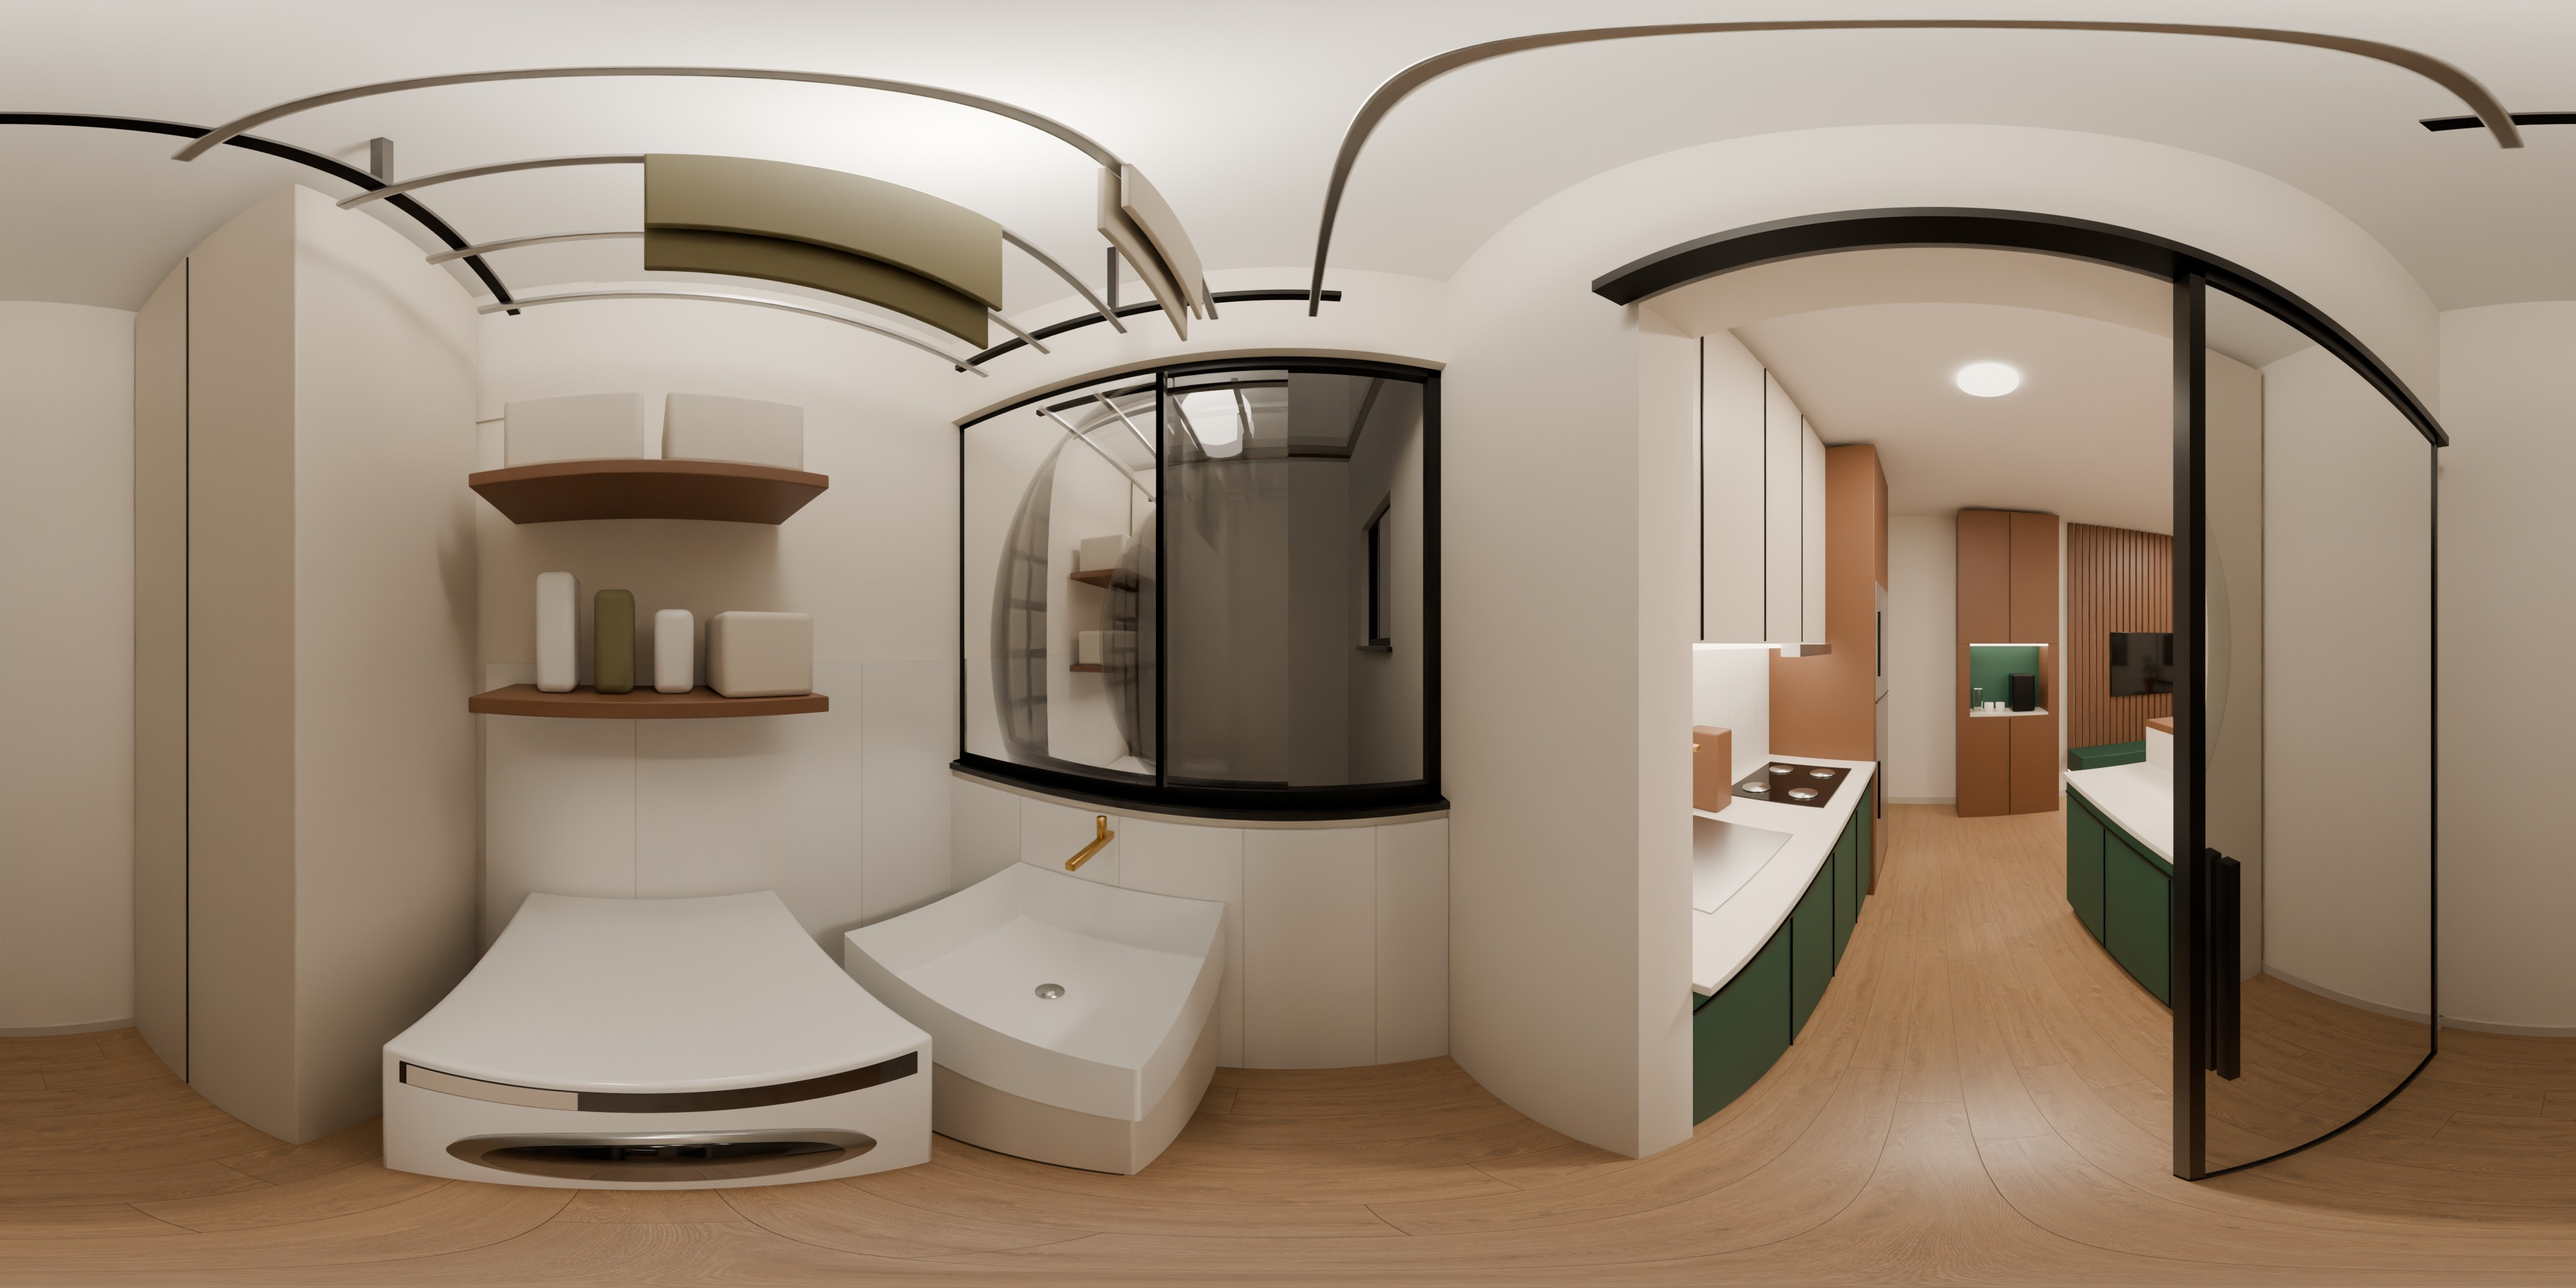
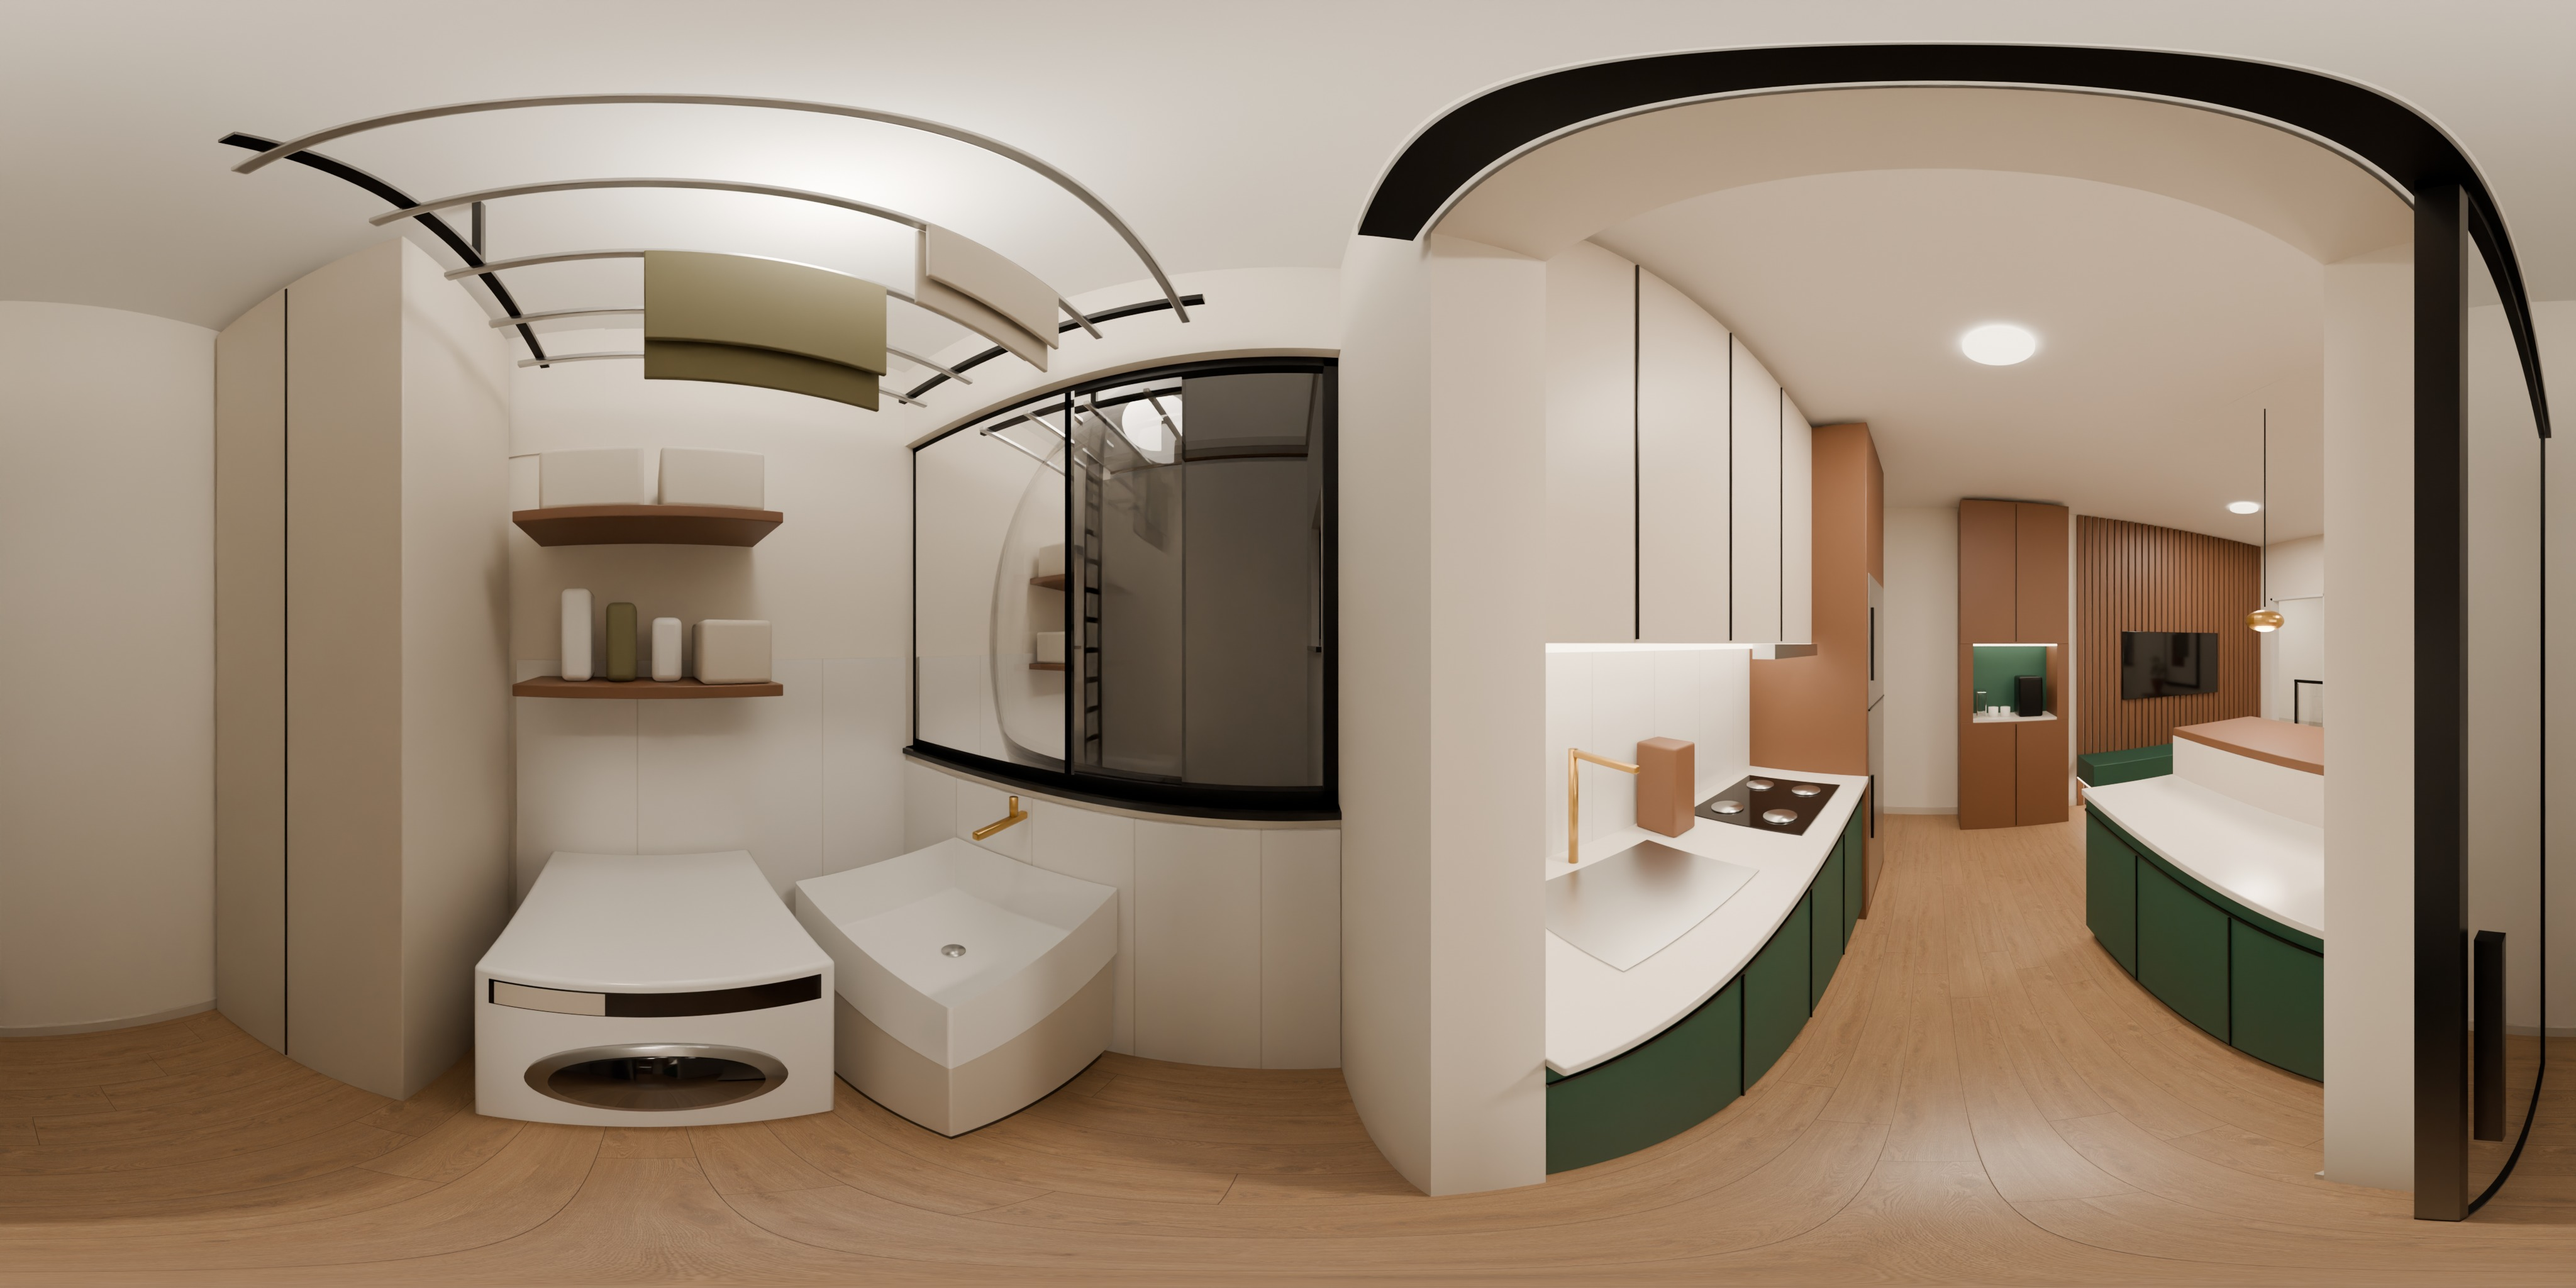
Tour 3D: 360 da lavanderia com a camera na porta

diff --git a/index.html b/index.html
@@ -140,7 +140,7 @@ const CENAS = {
 
   q_sala:    {tipo:"q3", nome:"Sala", area:"11,47", pano:"3q_sala", x:[0,2.40], y:[0,4.78], cam:[1.10,3.30], yaw:-35},
   q_cozinha: {tipo:"q3", nome:"Cozinha", area:"10,03", pano:"3q_cozinha", x:[2.52,4.55], y:[1.38,4.78], cam:[3.45,3.00], yaw:-90},
-  q_servico: {tipo:"q3", nome:"Área de serviço", area:"tanque e lava e seca", pano:"3q_lavanderia", x:[2.52,4.55], y:[0,1.38], cam:[3.62,1.00], yaw:-60},
+  q_servico: {tipo:"q3", nome:"Área de serviço", area:"tanque e lava e seca", pano:"3q_lavanderia", x:[2.52,4.55], y:[0,1.38], cam:[3.62,1.26], yaw:-75},
   q_banheiro:{tipo:"q3", nome:"Banheiro", area:"3,39", pano:"3q_banheiro", x:[4.67,6.17], y:[1.50,3.76], cam:[5.60,3.10], yaw:-120},
   q_corredor:{tipo:"q3", nome:"Circulação", area:"5,73", pano:"3q_corredor", x:[4.67,11.04], y:[3.88,4.78], cam:[7.85,4.33], yaw:180},
   q_quarto3: {tipo:"q3", nome:"Quarto", area:"9,02", pano:"3q_quarto3", x:[6.29,8.69], y:[0,3.76], cam:[7.60,3.30], yaw:-150},
@@ -149,7 +149,7 @@ const CENAS = {
 
   t_sala:    {tipo:"terreo", nome:"Sala", area:"11,47", pano:"t_sala", x:[0,2.40], y:[0,4.78], cam:[1.10,3.30], yaw:-35},
   t_cozinha: {tipo:"terreo", nome:"Cozinha", area:"10,03", pano:"t_cozinha", x:[2.52,4.55], y:[1.38,4.78], cam:[3.45,3.00], yaw:-90},
-  t_servico: {tipo:"terreo", nome:"Área de serviço", area:"tanque e lava e seca", pano:"t_lavanderia", x:[2.52,4.55], y:[0,1.38], cam:[3.62,1.00], yaw:-60},
+  t_servico: {tipo:"terreo", nome:"Área de serviço", area:"tanque e lava e seca", pano:"t_lavanderia", x:[2.52,4.55], y:[0,1.38], cam:[3.62,1.26], yaw:-75},
   t_banheiro:{tipo:"terreo", nome:"Banheiro", area:"3,39", pano:"t_banheiro", x:[4.67,6.17], y:[1.50,3.76], cam:[5.60,3.10], yaw:-120},
   t_corredor:{tipo:"terreo", nome:"Circulação", area:"5,73", pano:"t_corredor", x:[4.67,11.04], y:[3.88,4.78], cam:[7.85,4.33], yaw:180},
   t_quarto3: {tipo:"terreo", nome:"Quarto", area:"9,02", pano:"t_quarto3", x:[6.29,8.69], y:[0,3.76], cam:[7.60,3.30], yaw:-60},
@@ -172,13 +172,13 @@ const PASSAGENS = {
   hall_andar:[["hall_terreo",[-1.90,3.4],"Descer",90],["q_sala",[-0.06,4.20],"Apto 201 · 301",0],["q_sala",[-0.06,5.56],"Apto 202 · 302",0],["d_sala",[-2.52,7.78],"Apto 203 · 303",180]],
 
   q_sala:[["q_cozinha",[2.46,3.70]],["hall_andar",[-0.06,4.20],"Sair para o hall",180]],
-  q_cozinha:[["q_sala",[2.46,3.70]],["q_corredor",[4.61,4.33]],["q_servico",[3.62,1.44],"Área de serviço",-60]],
+  q_cozinha:[["q_sala",[2.46,3.70]],["q_corredor",[4.61,4.33]],["q_servico",[3.62,1.44],"Área de serviço",-75]],
   q_servico:[["q_cozinha",[3.62,1.44],"Cozinha",90]],
   q_corredor:[["q_cozinha",[4.61,4.33]],["q_banheiro",[5.70,3.82]],["q_quarto3",[6.75,3.82]],["q_quarto2",[9.26,3.82]],["q_quarto1",[10.98,4.33]]],
   q_banheiro:[["q_corredor",[5.70,3.82]]], q_quarto3:[["q_corredor",[6.75,3.82]]], q_quarto2:[["q_corredor",[9.26,3.82]]], q_quarto1:[["q_corredor",[10.98,4.33]]],
 
   t_sala:[["t_cozinha",[2.46,3.70]],["hall_terreo",[-0.06,4.20],"Sair para o hall",180]],
-  t_cozinha:[["t_sala",[2.46,3.70]],["t_corredor",[4.61,4.33]],["t_servico",[3.62,1.44],"Área de serviço",-60]],
+  t_cozinha:[["t_sala",[2.46,3.70]],["t_corredor",[4.61,4.33]],["t_servico",[3.62,1.44],"Área de serviço",-75]],
   t_servico:[["t_cozinha",[3.62,1.44],"Cozinha",90]],
   t_corredor:[["t_cozinha",[4.61,4.33]],["t_banheiro",[5.70,3.82]],["t_quarto3",[6.75,3.82]],["t_quarto2",[9.26,3.82]],["t_quarto1",[10.98,4.33]]],
   t_banheiro:[["t_corredor",[5.70,3.82]]],
